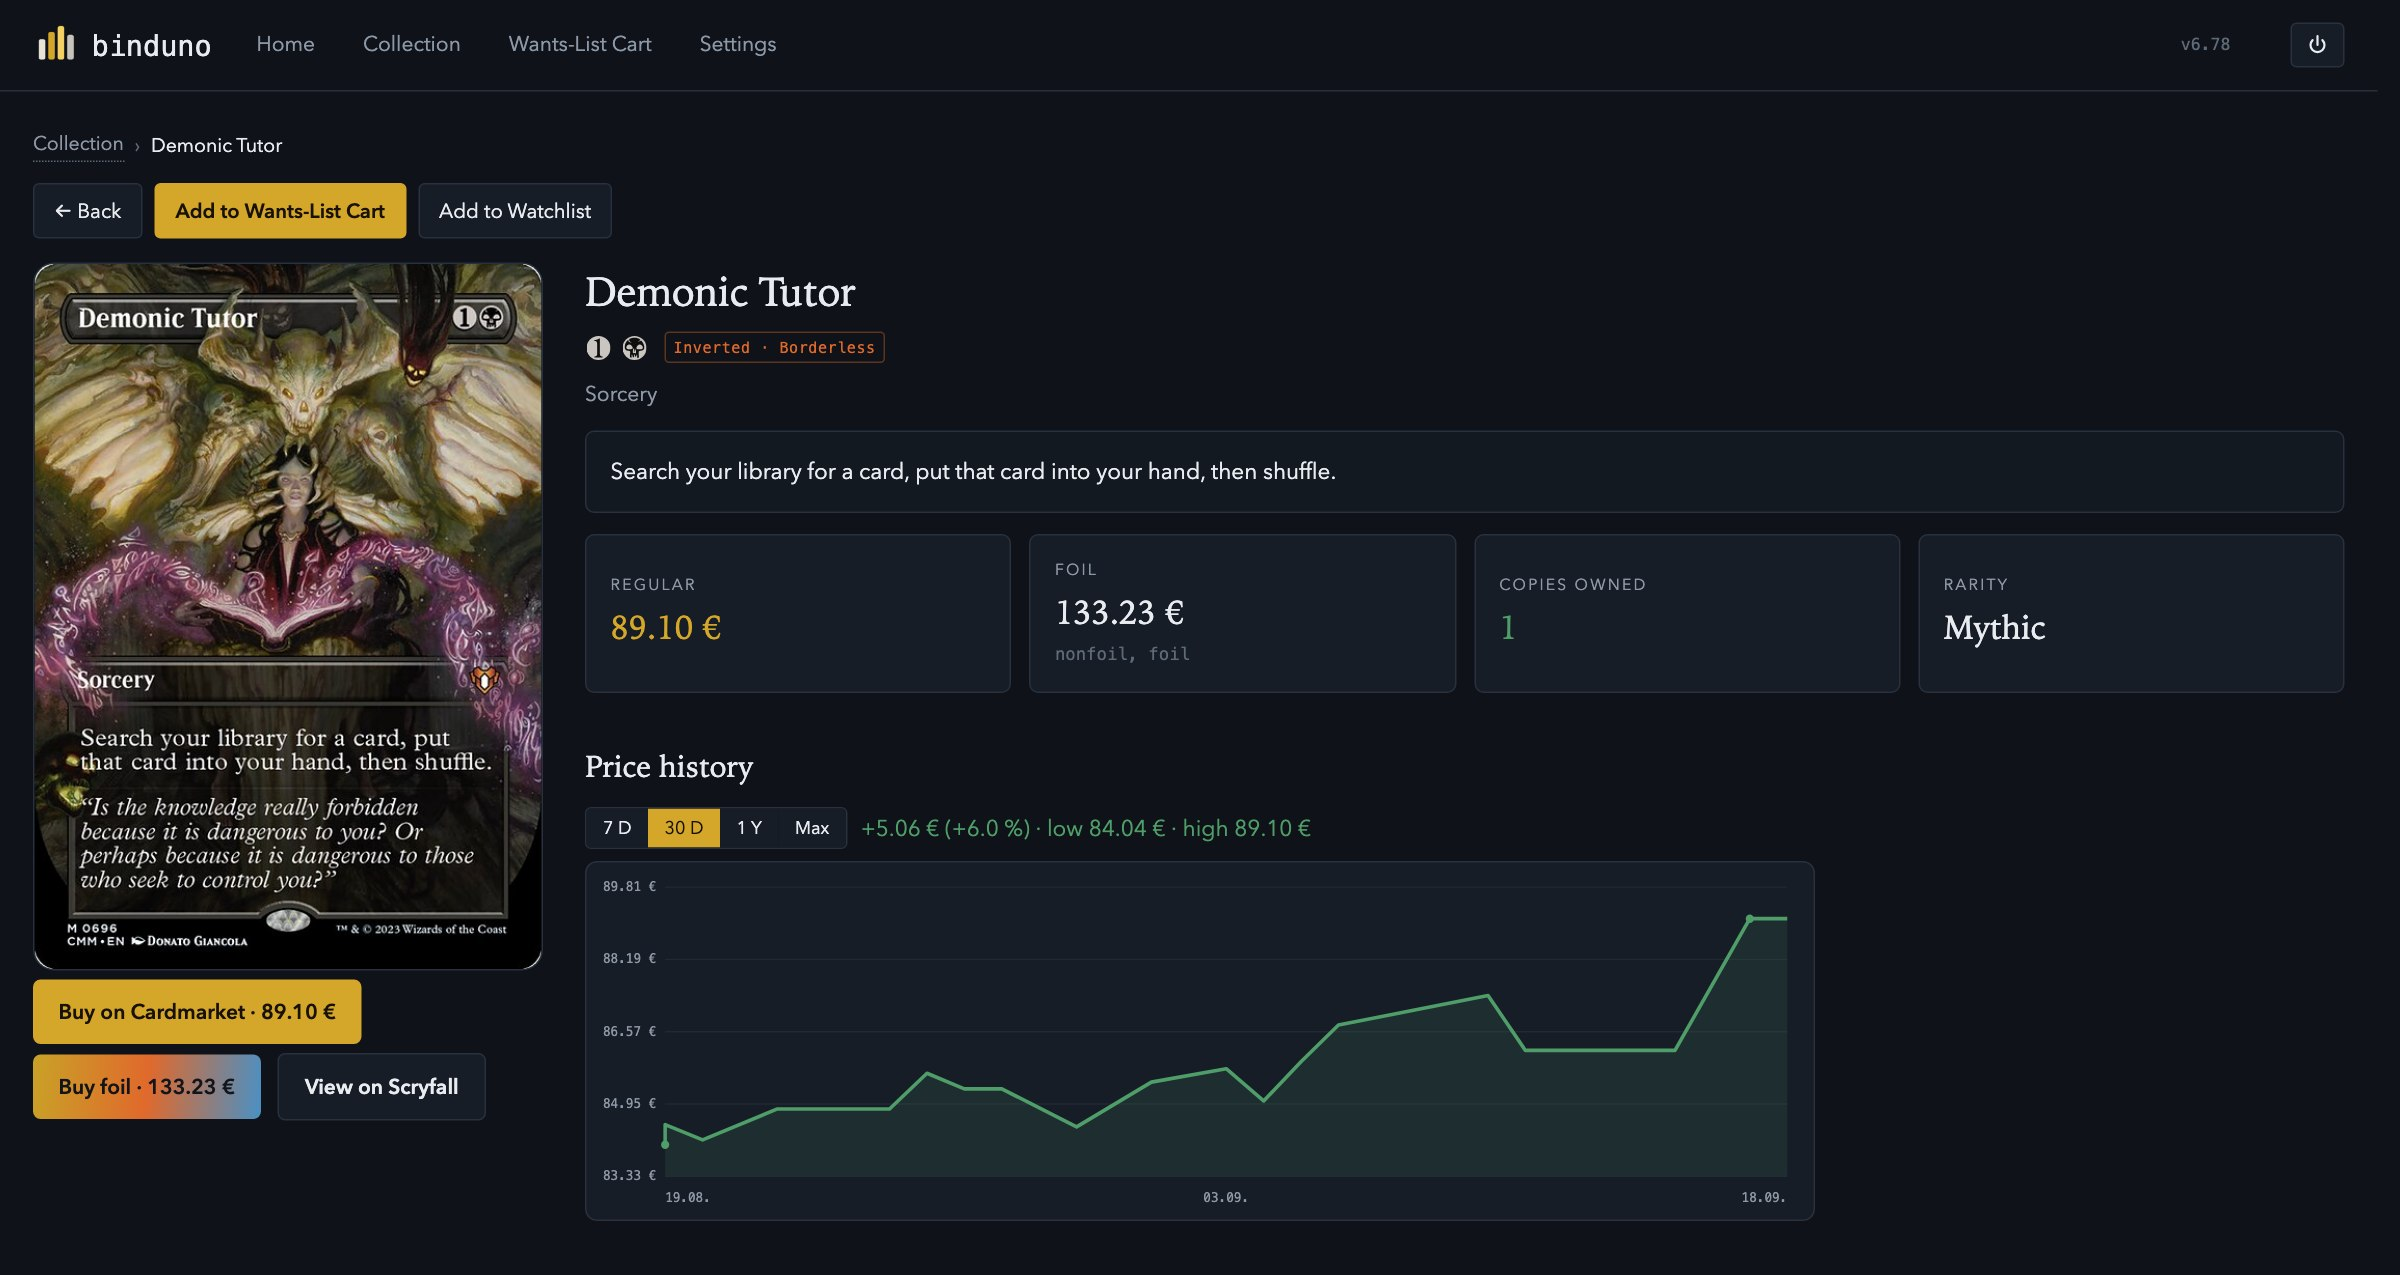
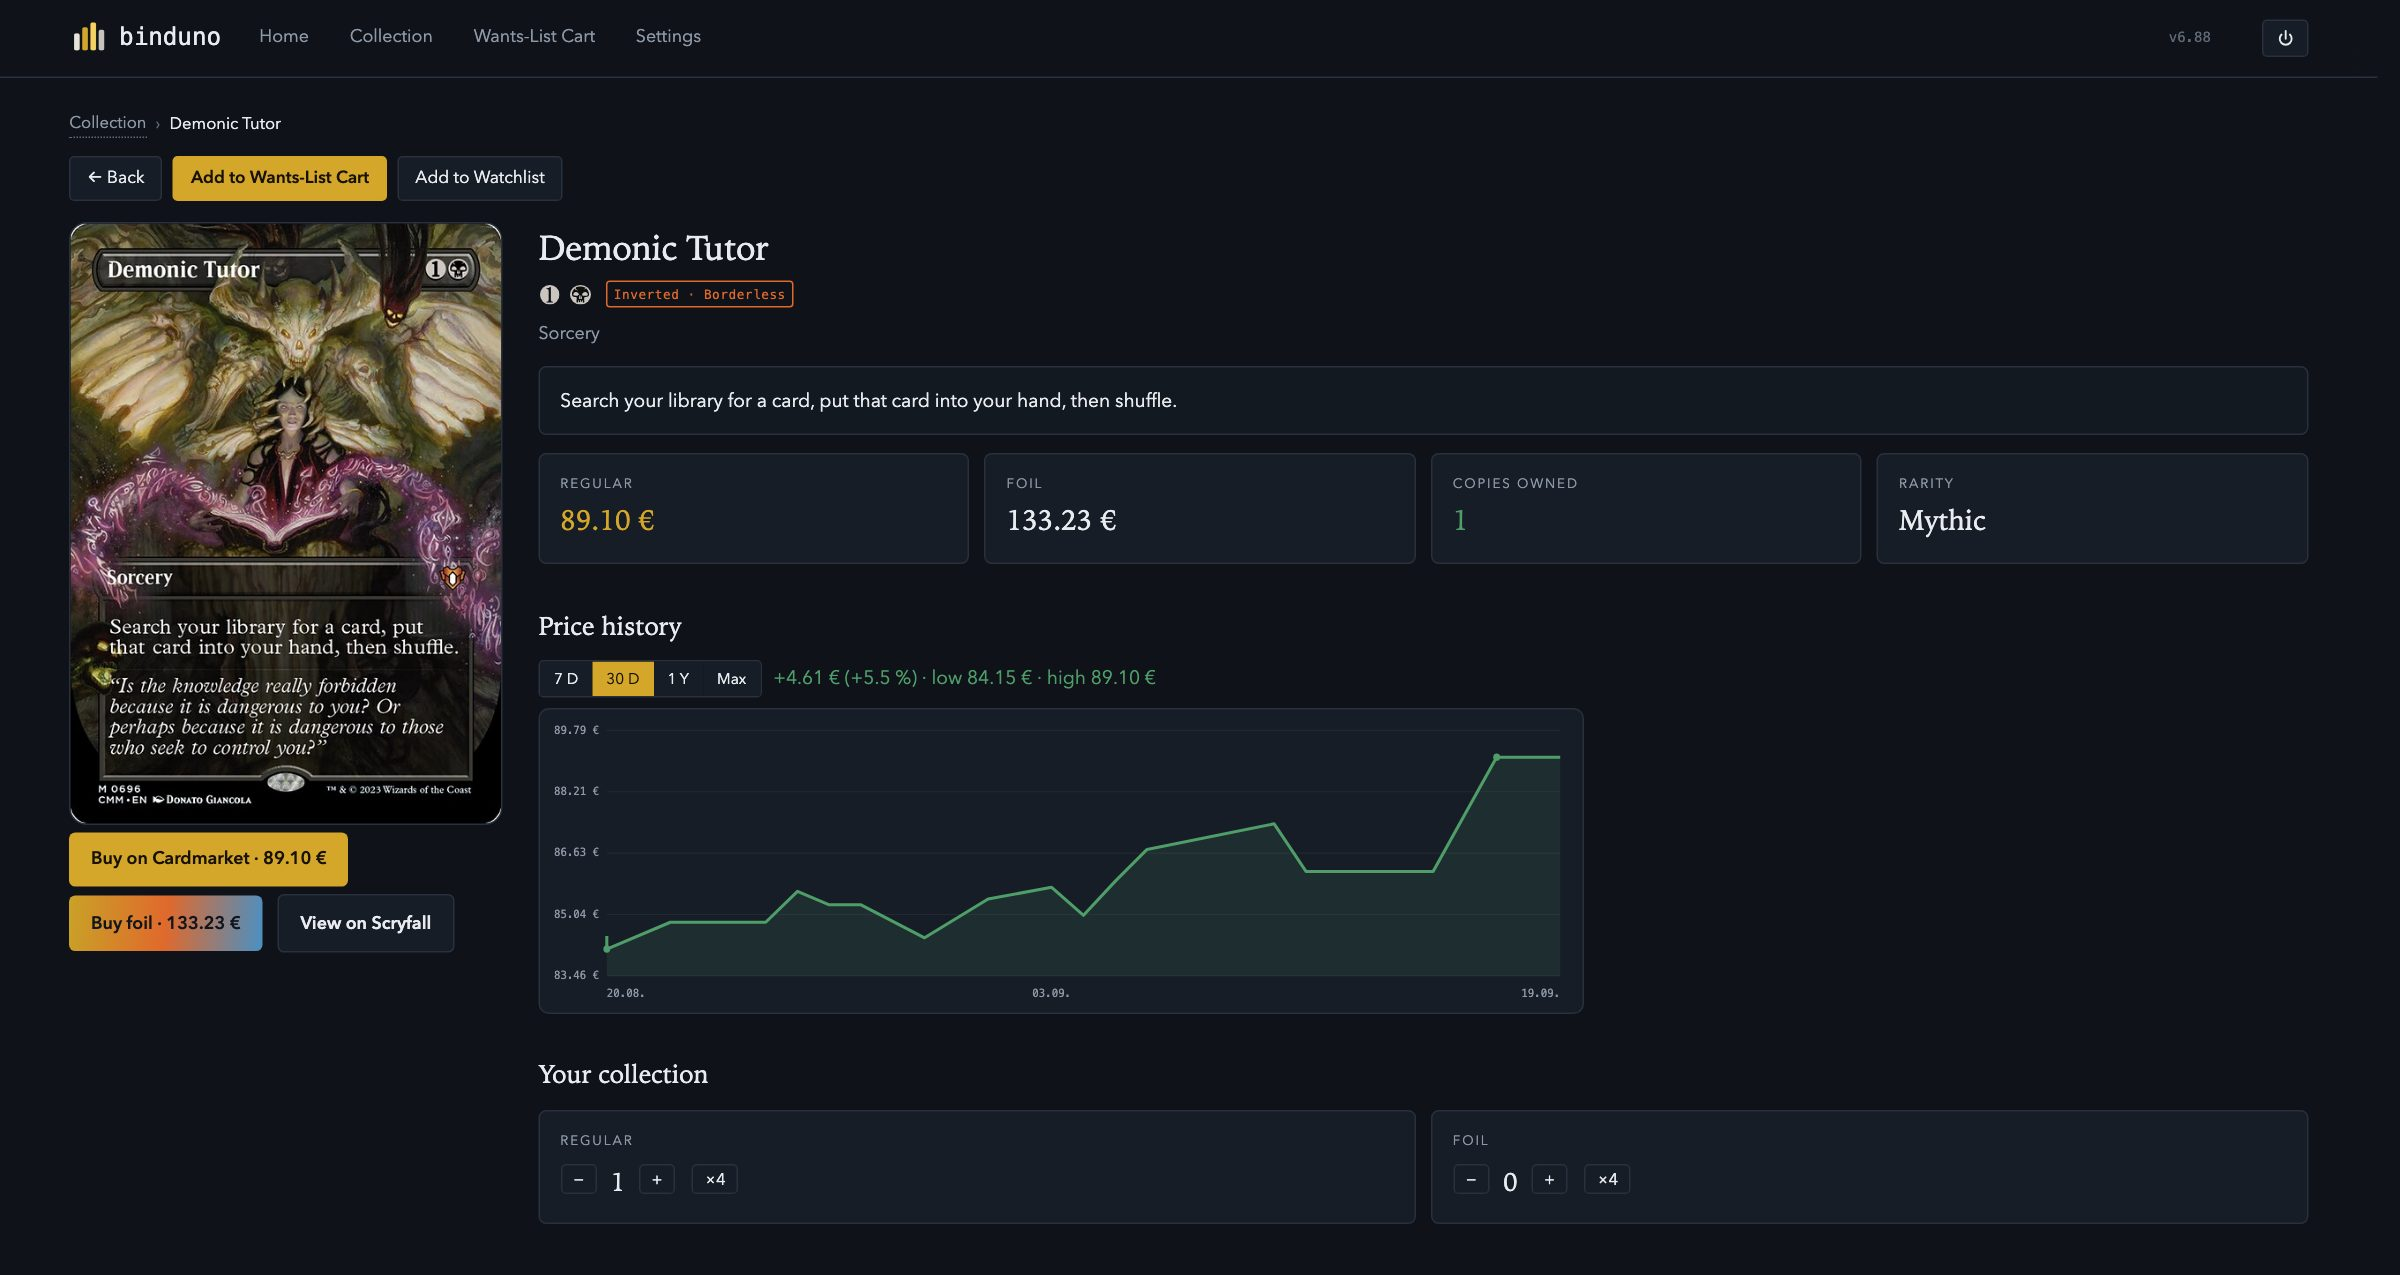
Update README and screenshots for 6.88: new Value over time section, collector profiles, multi-select, purchase-price tracking, all screenshots refreshed

diff --git a/README.md b/README.md
@@ -8,7 +8,7 @@
 
 One Python file, standard library only. No account, no cloud, nothing to sign up for — your collection never leaves your computer.
 
-![version](https://img.shields.io/badge/version-6.29-d4a629)
+![version](https://img.shields.io/badge/version-6.88-d4a629)
 ![python](https://img.shields.io/badge/python-3.9%2B-4a90c4)
 ![status](https://img.shields.io/badge/status-early%20beta-e0692c)
 ![platform](https://img.shields.io/badge/platform-macOS%20%C2%B7%20Windows%20%C2%B7%20Linux-8d98a7)
@@ -65,6 +65,7 @@ It runs a tiny local web server and opens in your browser. That's the whole app.
 ### Set completion, your rules
 
 - Choose what counts as 100 %: one printing per name, every collector number, or include Showcase / borderless / extended‑art / special foils
+- Three built‑in **collector profiles** (Name / Base Set / Master Set Collector) get you close in one click; every rule underneath is still yours to flip
 - Serialized cards and whole sets (promos, tokens, Un‑sets…) toggleable
 - Optional price cap that sets very expensive cards aside so one Reserved‑List card doesn't make a set look unaffordable *(off by default)*
 
@@ -79,6 +80,7 @@ It runs a tiny local web server and opens in your browser. That's the whole app.
 
 - Correct Cardmarket names, bracket order (`Card (Set) (V.1)` vs. `Card (V.1) (Set: Extras)`), quantity prefixes and 150‑entry blocks
 - "Buy missing" per set, or collect cards across sets in the **Wants‑List Cart**
+- Multi‑select in the card browser to add several cards to the cart at once
 - **Secret Lair** works too — Cardmarket splits it into dozens of per‑drop expansions, so Binduno resolves each Secret Lair card to its exact drop ("Secret Lair Drop Series: Marvel Superdrop", …) via Cardmarket's public product list and emits the matching want‑list line.
 
 ### Easily build your dream deck
@@ -96,7 +98,8 @@ Paste a deck list from **Moxfield, Archidekt, MTG Arena, MTGO, TappedOut, Deckst
 ### Price history and watchlist
 
 - A **price history graph on every card page** — 7 days, 30 days, 1 year or Max, with a crosshair that reads off the exact date and price
-- A **watchlist** of up to 100 cards on the home page, with the same time‑range switch and a sparkline that shows how far each card has moved from where it started
+- A **watchlist** of up to 100 cards on the home page, with regular and foil price trend + change shown side by side, and the same time‑range switch
+- **Purchase prices**, tracked per batch — buy the same card twice at different prices and Binduno keeps both, instead of blending them into one number
 
 <p align="center"><img src="docs/pricehistory.jpg" width="880" alt="Price history graph on a card page"></p>
 <p align="center"><img src="docs/watchlist.jpg" width="880" alt="Price watchlist with a 7/30-day/1-year/Max range switch"></p>
